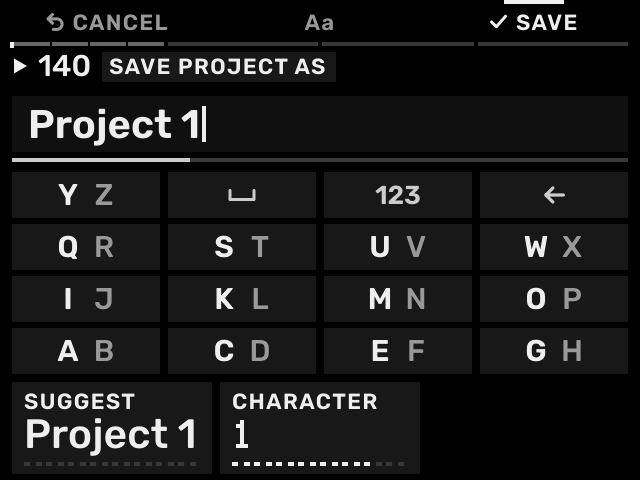
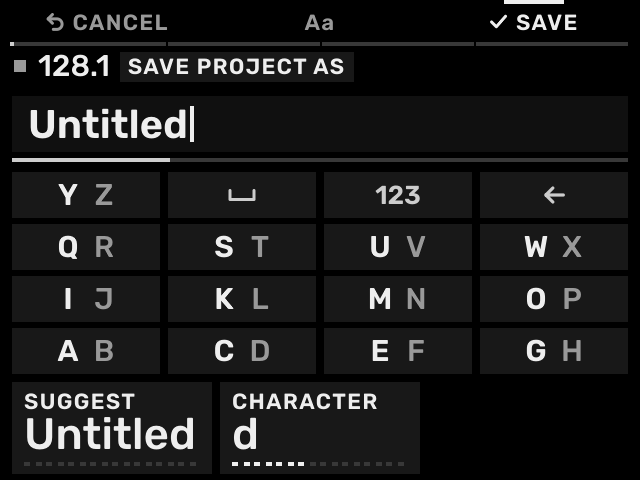
Align project saving and recovery documentation

diff --git a/docs/MANUAL_020_EN.md b/docs/MANUAL_020_EN.md
@@ -20,7 +20,7 @@ RHYTHMER OS **0.2.0** for MPC Sample. Choose a chapter from the contents, or fol
 | Open GEN | PATTERNS → SHIFT + B3 | Open pattern generation. Check the target before applying. |
 | Fine-adjust a value | Touch its K1–K3 knob, then SHIFT + encoder turn | Fine adjustment; this is **not** Back. |
 | Undo / Redo | SHIFT + − / + | Undo/redo supported project edits. Not every plug-in knob has project Undo. |
-| Save under a new name | SHIFT + Pad 16 → B1 SAVE AS | Name a project copy; B3 SAVE confirms its name. |
+| Save / Save As | SHIFT + Pad 16 → B1 SAVE; hold SHIFT + B1 for SAVE AS | First SAVE and SAVE AS choose a folder and name. |
 | Stop all current audio | Press STOP twice within 400 ms | Cut notes and effect tails. A new note or PLAY resumes sound. |
 
 A single PAD BANK tap changes the pad bank. Holding it while selecting a track does not. If NOTE REPEAT or ARP is active, rate choices can temporarily replace soft-key menus. Turn the repeat/arp off before following a menu instruction.
@@ -33,7 +33,7 @@ A single PAD BANK tap changes the pad bank. Holding it while selecting a track d
 
 | Item | Meaning | How to select it |
 | --- | --- | --- |
-| Project | The complete session: tracks, patterns, mix and arrangement | SHIFT + Pad 16 → OPEN / NEW; SAVE AS makes a named copy |
+| Project | The complete session: tracks, patterns, mix and arrangement | SHIFT + Pad 16 → SAVE / OPEN / NEW; SHIFT + B1 SAVE AS chooses a folder/name |
 | Track | One part of the session; its instrument/audio, patterns and mix | PAD BANK + pad 1–16, or TRACKS |
 | Pattern | Notes and supported motion for one track; up to 128 per track | SEQ → B1 PATTERNS → pattern pad |
 | Sequence | A pattern number launched across tracks | SEQ → B1 SEQUENCES → sequence pad |
@@ -64,7 +64,7 @@ A first install starts in Basic. Settings → FEATURES = FULL shows MIDI/Audio a
 
 ### Save the right thing
 
-- **Project:** the session, including notes, arrangement and instrument state. Autosaves while idle; SAVE AS makes a copy.
+- **Project:** the session, including notes, arrangement and instrument state. SAVE keeps the project; idle autosave updates a separate recovery copy. SAVE AS makes a separate project.
 - **User Sound:** a reusable instrument sound, without the song's notes.
 - **User Kit:** a reusable kit and its edited pad sounds, without the song's notes.
 - **SD backup:** keeps source samples and all project/preset files. Saving a preset is not a source-audio backup.
@@ -91,7 +91,7 @@ If a pad changes a pattern number instead of playing a sound, you are on PATTERN
 
 ![Track type cards: choose the role of the selected empty track](../assets/manual/020-tracktypes.png)
 
-A new project normally loads one of the MPC's factory kits on track 1. To start with an empty kit instead: **SHIFT + Pad 16 → B3 NEW → B2 EMPTY** on the confirmation. Do this only when you intend to start a new project.
+A normal NEW project loads **Rhythmer Kit / K-WASUB / 909** on track 1. Opening a saved project keeps its saved instruments. To start with an empty kit instead: **SHIFT + Pad 16 → B3 NEW → B2 EMPTY** on the confirmation. Do this only when you intend to start a new project.
 
 To add a plug-in on a different track:
 
@@ -381,15 +381,44 @@ Load A and Load B are different actions. On source B changes, the bar structure 
 
 TRACKS uses **K1 LEVEL / K2 PAN / K3 SEND A**. The default black-and-white screen keeps colour names/metadata for kits without requiring colour to identify the selected track or pad.
 
-## 14. Save, reopen and back up
+## 14. Save, reopen and recover
 
-![Project: NEW, OPEN and SAVE AS](../assets/manual/020-project.png)
+![Project: SAVE, OPEN and NEW](../assets/manual/020-project.png)
 
-![SAVE AS: name the project, then confirm SAVE](../assets/manual/020-nameproject.png)
+**SAVE keeps your project. Autosave keeps a separate recovery copy.** Autosave never overwrites your manually saved project and never creates numbered projects in your normal project folder.
 
-The project autosaves about three seconds after the last control while playback, recording and printing are stopped. The Project page shows SAVED / UNSAVED. Stop and let saving finish before power-off or card removal.
+### First SAVE: choose a folder and name
 
-To keep a named copy: **SHIFT + Pad 16 → B1 SAVE AS → enter name → B3 SAVE**. An imported MPC project needs SAVE AS before it is written in RHYTHMER's own project format. To reopen: Project → **B2 OPEN** → choose the project → push.
+1. Stop playback and finish recording or printing.
+2. Press **SHIFT + Pad 16**, release SHIFT, then press **B1 SAVE**. A folder browser opens.
+3. Turn the encoder to choose a folder; push to enter it. **SHIFT + encoder push** goes up a folder. The header shows the current location.
+4. Press **B3 USE FOLDER** to choose the displayed folder. **B2 NEW FOLDER** creates a folder there; enter that folder if you want to use it.
+5. Enter the project name and press **B3 SAVE**. If that name already exists, **REPLACE** asks before overwriting it.
+6. Wait for **SAVED**. A failed write leaves your previous project path and unsaved changes intact.
+
+![SAVE: choose the destination folder](../assets/manual/020-save-folder.png)
+
+![SAVE: enter the file name](../assets/manual/020-nameproject.png)
+
+On a project with its own saved file, **B1 SAVE updates that same file** without asking for a folder each time. To choose a different folder or make a separate project, hold SHIFT and press **B1 SAVE AS** on the Project page. SAVE AS gives the new project its own recovery identity.
+
+Save destinations are writable SD folders. INTERNAL, stock MPC project folders, system folders and Rhythmer's recovery/cache folders are not manual-save destinations. Selecting one does not silently save somewhere else. Back from the name sheet returns to folder selection; **B1 CANCEL** in the folder browser cancels the save.
+
+### OPEN and NEW
+
+Project → **B2 OPEN** → choose the project → push → LOAD. If the current project has changes, choose **SAVE**, **DISCARD** or **CANCEL**. SAVE must finish successfully before switching. DISCARD leaves the manually saved file unchanged; CANCEL keeps the current project open. NEW uses the same protection before offering a normal or empty new project.
+
+### One recovery copy per project
+
+After about three seconds without control input, while playback, recording, printing and loading are stopped, changed work is checkpointed under **Rhythmer/Autosave**. The same project updates the same recovery entry. Names do not determine identity, so two projects called Session can have separate recovery entries. A never-saved session also has one recovery entry; its first manual SAVE keeps that identity.
+
+**UNSAVED** means changes have not been kept by your own SAVE. **Recovery saved HH:MM** only confirms a recovery checkpoint. These are different states.
+
+On startup, an available last-work checkpoint offers **RECOVER** or **LATER**. To find it later: open the Project home tiles (**SAVE / OPEN / NEW**), then hold SHIFT and press **B3 RECOVERY**. Select the project recovery entry and LOAD. A recovered copy is unsaved; use SAVE, select a folder and name, and confirm any replacement before keeping it. Recovering does not overwrite your manual file. Discarded work is not automatically offered at the next startup, but its existing recovery entry remains available in RECOVERY.
+
+![RECOVERY: one entry per project](../assets/manual/020-recovery.png)
+
+Recovery writing uses a temporary manifest and bounded staging for its loop/take/print data. Wait for work to finish before removing the card. Recovery is not a replacement for a separate SD backup.
 
 | Save | Contains | Does not replace |
 | --- | --- | --- |
@@ -397,7 +426,7 @@ To keep a named copy: **SHIFT + Pad 16 → B1 SAVE AS → enter name → B3 SAVE
 | User Sound | The edited instrument sound | Project notes/arrangement |
 | User Kit | Kit-wide and pad sound settings | Source sample backup or the project |
 
-Back up **Rhythmer**, **Samples** and other original sample folders, plus the rest of your card when practical. Do not delete source files just because a project or User Kit has been saved.
+Back up **Rhythmer**, every manually chosen project folder, **Samples** and other original sample folders. Source samples remain referenced; saving a project does not collect every external sample into its destination. Existing numbered projects are left untouched.
 
 ## 15. Further tasks
 

diff --git a/docs/FIRST_GROOVE_020_EN.md b/docs/FIRST_GROOVE_020_EN.md
@@ -20,7 +20,7 @@ RHYTHMER OS **0.2.0** · **4 bars · 140 BPM · C minor**. Build a drum, bass an
 
 ## 1. Create an empty project
 
-![Project: NEW, OPEN and SAVE AS](../assets/manual/020-project.png)
+![Project: SAVE, OPEN and NEW](../assets/manual/020-project.png)
 
 ![New project confirmation: choose EMPTY](../assets/manual/020-newproject.png)
 
@@ -149,15 +149,17 @@ RHYTHMER OS **0.2.0** · **4 bars · 140 BPM · C minor**. Build a drum, bass an
 
 ## 8. Save and reopen
 
-![SAVE AS: name the project, then confirm SAVE](../assets/manual/020-nameproject.png)
+![SAVE: name the project after choosing its folder](../assets/manual/020-nameproject.png)
 
 ![OPEN: select the saved project](../assets/manual/020-projectlist.png)
 
-1. Press STOP and allow about three seconds without adjusting controls. The project can autosave while idle.
-2. Press **SHIFT + Pad 16 → B1 SAVE AS**.
-3. Enter a name, for example **FIRST GROOVE 020**, and press **B3 SAVE**.
-4. Wait for **SAVED**. Keep the original samples and plug-in folders on the card.
-5. To reopen later: Project → **B2 OPEN** → choose the project → push.
+1. Press STOP and finish recording or printing.
+2. Press **SHIFT + Pad 16**, release SHIFT, then press **B1 SAVE**. For this first save, choose a folder with the encoder: push enters it, SHIFT + encoder push goes up.
+3. Press **B3 USE FOLDER**, enter **FIRST GROOVE 020**, then press **B3 SAVE**.
+4. Wait for **SAVED**. Keep the original samples and plug-in folders on the card. Future B1 SAVE presses update this file; Project → **SHIFT + B1 SAVE AS** chooses another folder/name for a separate project.
+5. To reopen: Project → **B2 OPEN** → choose the project → push → LOAD. With unsaved changes, choose SAVE, DISCARD or CANCEL.
+
+Automatic recovery is separate: it updates one entry for this project under Rhythmer/Autosave, without overwriting your manual save. From the Project home tiles (SAVE / OPEN / NEW), **SHIFT + B3 RECOVERY** opens the recovery list. Use SAVE after loading a recovered copy to keep it deliberately.
 
 **Check:** saving a project is different from saving a User Sound/Kit. The project is what preserves the drum, bass and chord patterns together.
 

diff --git a/docs/SYSTEM_MAP_020_EN.md b/docs/SYSTEM_MAP_020_EN.md
@@ -6,7 +6,7 @@
 
 | Item | Meaning | How to select it |
 | --- | --- | --- |
-| Project | The complete session: tracks, patterns, mix and arrangement | SHIFT + Pad 16 → OPEN / NEW; SAVE AS makes a named copy |
+| Project | The complete session: tracks, patterns, mix and arrangement | SHIFT + Pad 16 → SAVE / OPEN / NEW; SHIFT + B1 SAVE AS chooses another folder/name |
 | Track | One part of the session; its instrument/audio, patterns and mix | PAD BANK + pad 1–16, or TRACKS |
 | Pattern | Notes and supported motion for one track; up to 128 per track | SEQ → B1 PATTERNS → pattern pad |
 | Sequence | A pattern number launched across tracks | SEQ → B1 SEQUENCES → sequence pad |
@@ -37,7 +37,7 @@ A first install starts in Basic. Settings → FEATURES = FULL shows MIDI/Audio a
 
 ## Save the right thing
 
-- **Project:** the session, including notes, arrangement and instrument state. Autosaves while idle; SAVE AS makes a copy.
+- **Project:** the session, including notes, arrangement and instrument state. SAVE keeps the named project; idle autosave updates a separate recovery copy. SAVE AS makes a separate project.
 - **User Sound:** a reusable instrument sound, without the song's notes.
 - **User Kit:** a reusable kit and its edited pad sounds, without the song's notes.
 - **SD backup:** keeps source samples and all project/preset files. Saving a preset is not a source-audio backup.

diff --git a/docs/RELEASE_020_NOTES_EN.md b/docs/RELEASE_020_NOTES_EN.md
@@ -39,6 +39,12 @@ Parameter names and ordering are refined across oscillator, filter, envelope, LF
 
 Open SAVE SOUND or PAD SOURCE from EDIT, save to one of 64 User Sound or User Kit slots, and reload your sounds from the preset list—even in another project. Save the project separately to keep its patterns and arrangement.
 
+### Save where you choose
+
+First SAVE and SAVE AS let you choose a folder and name. Further SAVE presses update that file. Opening another project or starting NEW offers SAVE, DISCARD or CANCEL instead of automatically overwriting your manual save.
+
+Idle autosave updates one separate recovery entry per project under Rhythmer/Autosave. On the Project home screen, SHIFT + B3 RECOVERY opens the list; load a recovered copy and SAVE it deliberately.
+
 ### Build a chord progression
 
 CHORD GEN is a separate instrument-track generator alongside the existing GENERATE Tn / MUTATE Tn workflow. Choose a genre, progression family, 1–8 chord changes and 1–16 bars; adjust rhythmic density, chord complexity, energy, voicing and register, then play the result as Block chords, an arpeggio or a strum.

diff --git a/docs/QUICK_REFERENCE_020_EN.md b/docs/QUICK_REFERENCE_020_EN.md
@@ -16,7 +16,9 @@
 | Open Step Edit | SHIFT + SEQ | Step editor for the selected track/pattern |
 | Record | SAMPLE → SEQ RECORD → PLAY | Wait for count-in, play notes; SEQ RECORD again leaves recording |
 | Generate | PATTERNS → SHIFT + B3 GEN | Check target and NEW SOUNDS / KEEP SOUND(S) before APPLY |
-| Save a project copy | SHIFT + Pad 16 → B1 SAVE AS → B3 SAVE | Name saved; wait for SAVED |
+| Save a project | SHIFT + Pad 16, release SHIFT → B1 SAVE | First save: folder → B3 USE FOLDER → name → B3 SAVE; later saves update that file |
+| Save another copy | Project → SHIFT + B1 SAVE AS | Choose a folder and name; original project stays |
+| Recover work | Project → SHIFT + B3 RECOVERY | One recovery entry per project; use SAVE after loading it |
 | Undo / redo | SHIFT + − / + | Supported project edit is restored/reapplied |
 | Cut current audio | STOP twice within 400 ms | Current notes/tails stop; a new note or PLAY resumes |
 | Open settings | SHIFT + Pad 8 | Main Settings; K1 FEATURES selects Basic/Full |

diff --git a/SOURCE_ARCHIVES.md b/SOURCE_ARCHIVES.md
@@ -2,6 +2,6 @@
 
 Use the matching RHYTHMER OS 0.2.0 source set. These archives are source code, not SD installers.
 
[4 lines of base64/hex data omitted]
